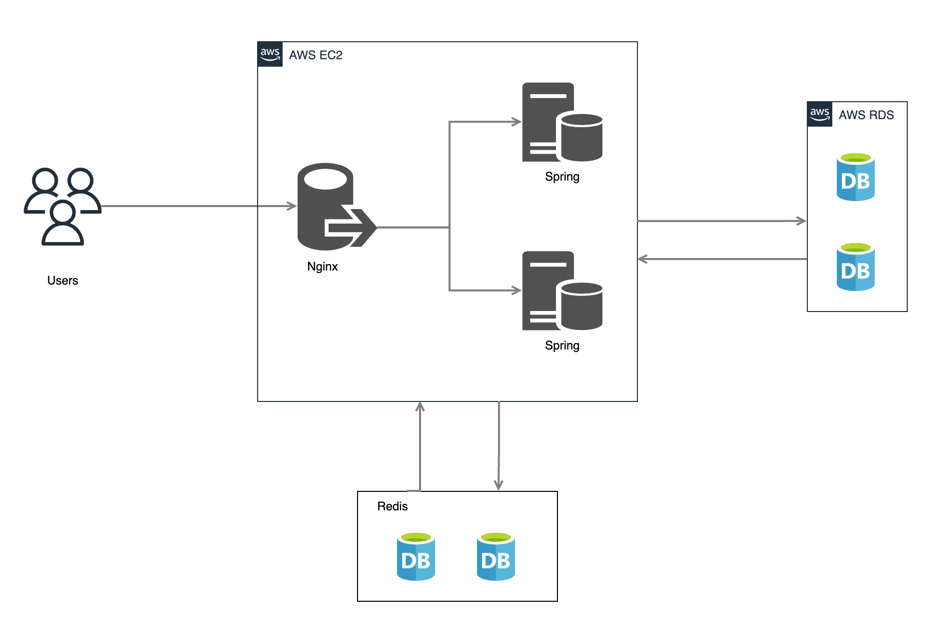
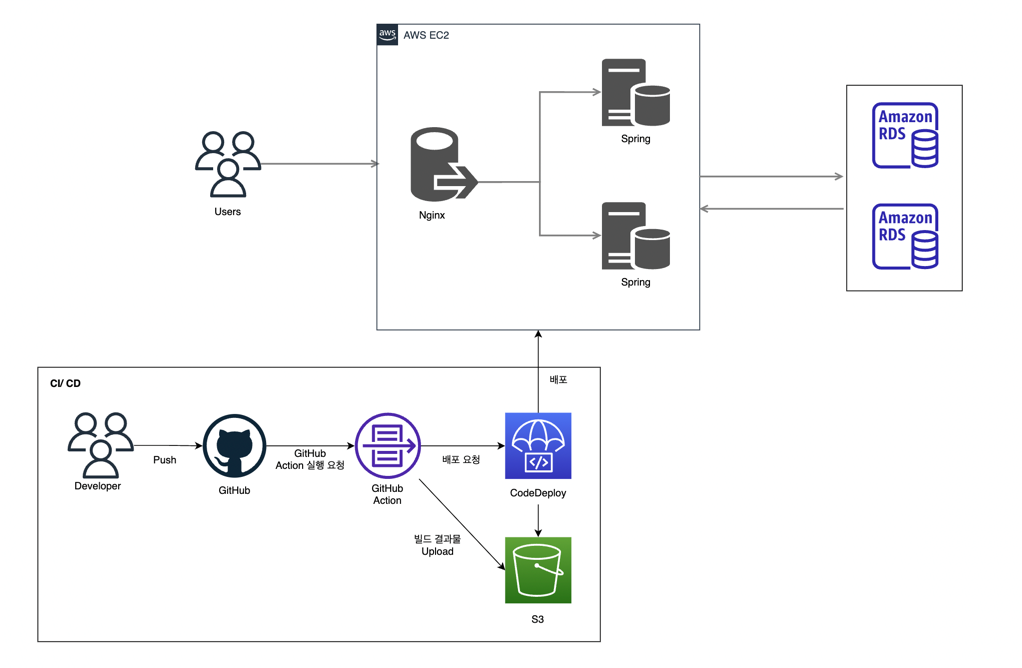
docs: CI/CD 구성도 추가하여 문서 최신화

diff --git a/README.md b/README.md
@@ -8,14 +8,17 @@
 
 ### ✅ 기술 스택
 - Back-End
-  - Java17
-  - Spring Boot
-  - Spring Data JPA
+  - Java 17
+  - Spring Boot v3.0.2
+  - Spring Data JPA v3.0.1
 - Infra
   - AWS EC2
   - AWS RDS
+  - AWS S3
+  - AWS CodeDeploy
 - ETC
   - Spring Rest Docs
+  - GitHub Actions
 
 ### ✅ 아키텍쳐
 ![architecture](./docs/architecture.png)
